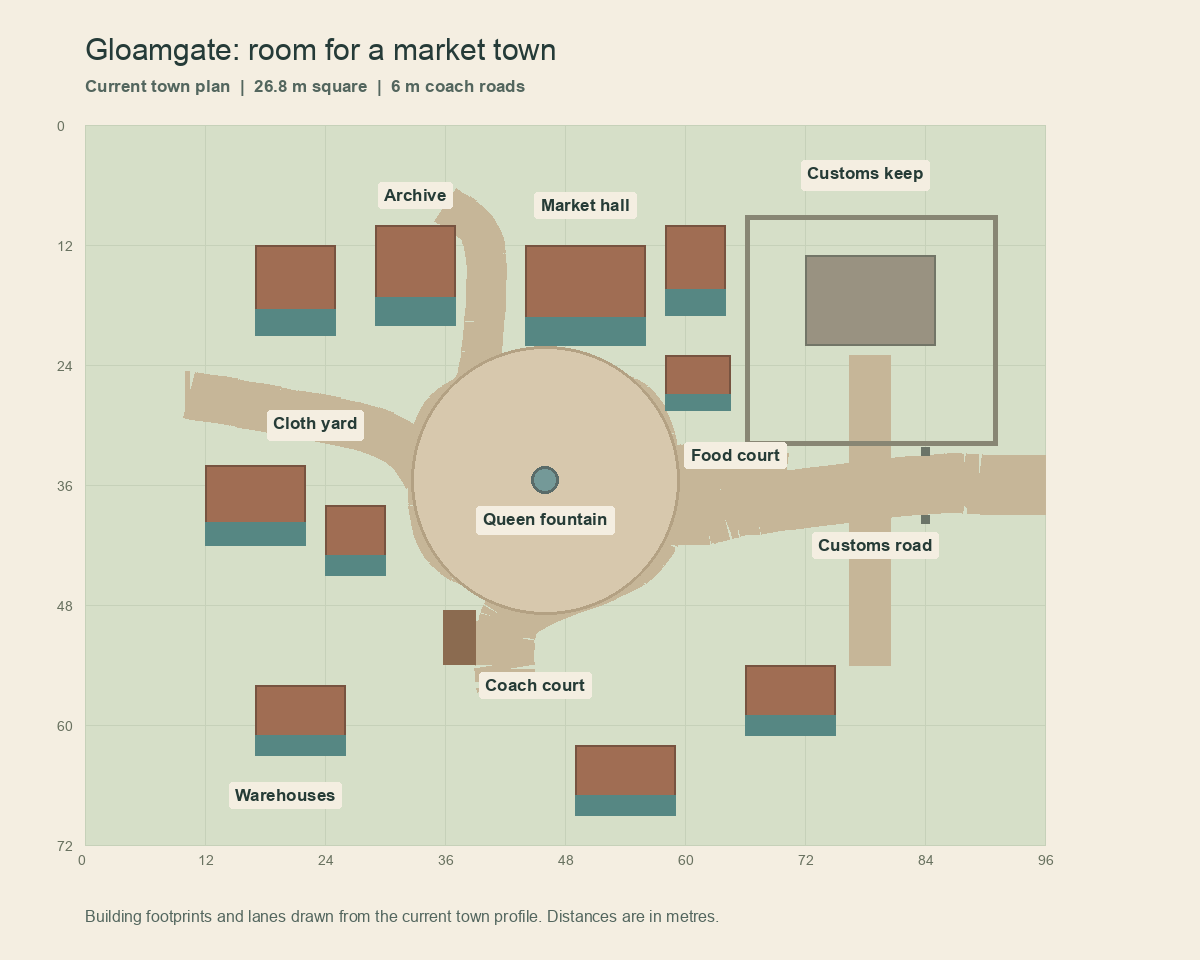
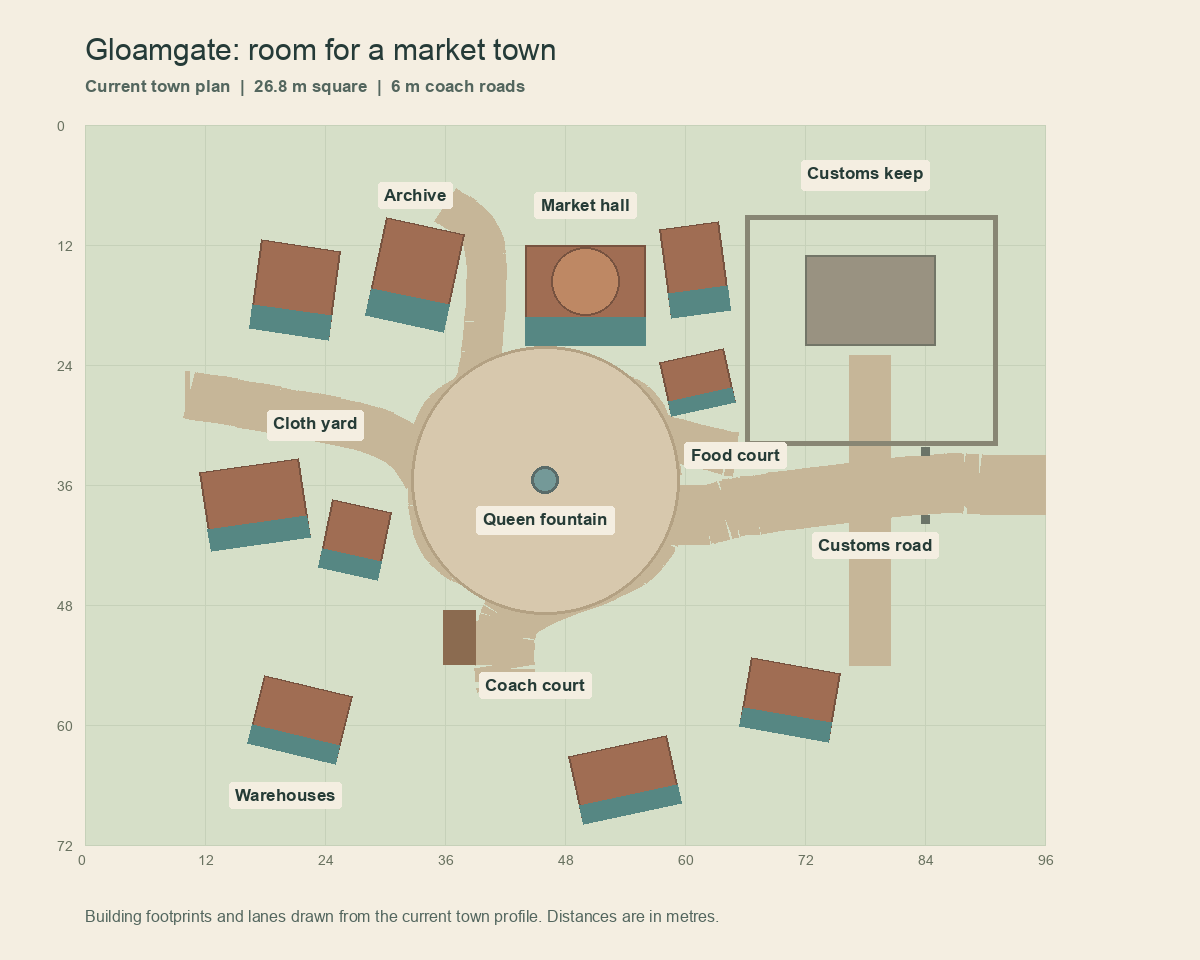
Turn Gloamgate shops toward the lanes and crown its market hall

diff --git a/tests/local_movement_tests.c b/tests/local_movement_tests.c
@@ -233,22 +233,34 @@ static bool RagdollTouchesStreet(const CcBiomechRagdoll *ragdoll)
 }
 
 static void RequireSolidStreetHouse(const char *name, float wall_x,
-                                    float center_x, float center_z)
+                                    float center_x, float center_z, float yaw)
 {
     const float radius = 0.16f;
+    float c = cosf(yaw * DEG2RAD), s = sinf(yaw * DEG2RAD);
     float body_y = CcLocalTerrainHeightAt(center_x, center_z) + 1.0f;
-    Vector3 previous = {wall_x - 0.80f, body_y, center_z};
-    Vector3 proposed = {wall_x + 0.80f, body_y, center_z};
+    Vector3 previous = {center_x + c * (wall_x - 0.80f - center_x),
+                        body_y, center_z - s * (wall_x - 0.80f - center_x)};
+    Vector3 proposed = {center_x + c * (wall_x + 0.80f - center_x),
+                        body_y, center_z - s * (wall_x + 0.80f - center_x)};
     Vector3 corrected = proposed;
     Vector3 normal = {0};
     if (!CcLocalProbePhysicsSphereInternal(
             CC_LOCAL_SCENE_STREET, previous, proposed, radius,
             &corrected, &normal) ||
-        corrected.x > wall_x - radius + 0.006f || normal.x > -0.90f) {
+        center_x + c * (corrected.x - center_x) - s * (corrected.z - center_z) >
+            wall_x - radius + 0.006f ||
+        c * normal.x - s * normal.z > -0.90f) {
         (void)fprintf(stderr,
                       "%s was not solid: %.3f %.3f %.3f normal %.3f %.3f %.3f\n",
                       name, corrected.x, corrected.y, corrected.z,
                       normal.x, normal.y, normal.z);
+        exit(1);
+    }
+    Vector2 legacy = CcLocalMove((Vector2){previous.x, previous.z},
+        (Vector2){proposed.x - previous.x, proposed.z - previous.z}, false);
+    if (center_x + c * (legacy.x - center_x) - s * (legacy.y - center_z) >
+        wall_x - 0.15f) {
+        (void)fprintf(stderr, "%s allowed walking through its angled wall\n", name);
         exit(1);
     }
 }
@@ -439,7 +451,8 @@ static void TestSharedCharacterCollisionWorld(void)
         const CcLocalPlaceBuilding *house = &market->building[houses[i]];
         RequireSolidStreetHouse(house->name, house->x,
                                  house->x + house->width * 0.5f,
-                                 house->z + house->depth * 0.5f);
+                                 house->z + house->depth * 0.5f,
+                                 market->building_yaw_degrees[houses[i]]);
     }
 
 

diff --git a/src/client/cc_local_place.c b/src/client/cc_local_place.c
@@ -256,8 +256,8 @@ static const CcLocalPlaceProfile PLACE_PROFILES[] = {
                 {49,47}, {44,48}, {42,51.2f}, {42,56}}},
             {"Customs rise", 4.2f, 5, {{78.5f,54}, {78.5f,44},
                 {78.5f,34}, {78.5f,27}, {78.5f,23}}},
-            {"Food lane", 4.5f, 4, {{57.5f,35.5f}, {61,34},
-                {65,33}, {70,35}}},
+            {"Food lane", 4.5f, 4, {{54.1f,27.4f}, {56,30.5f},
+                {61,31.5f}, {65,33}}},
             {"Cloth yard", 4.8f, 5, {{34.5f,35.5f}, {30,31},
                 {24,28}, {16,28}, {10,27}}},
             {"Archive lane", 4.0f, 5, {{37.9f,27.4f}, {39.5f,24},
@@ -295,6 +295,7 @@ static const CcLocalPlaceProfile PLACE_PROFILES[] = {
                         CC_LOCAL_PLACE_INDUSTRY |
                         CC_LOCAL_PLACE_CARRIAGE,
         .building_count = 10,
+        .building_yaw_degrees = {-8, -12, 0, 8, -12, -10, 12, 8, -14, 12},
         .primary_building = 2,
         .compound_structure_count = 12,
         .room_name = {

diff --git a/docs/reviews/gloamgate-2026-09-08/README.md b/docs/reviews/gloamgate-2026-09-08/README.md
@@ -3,7 +3,8 @@
 Gloamgate has a broad market square and five service lanes. The square is
 26.8 metres across. Six-metre coach roads curve into the existing yard.
 Shops and warehouses stand around separate trading courts, with lower
-buildings toward the camera.
+buildings toward the camera. Angled shops follow the lanes. A round guild
+chamber rises above the market hall and its bowed canopy.
 
 ![Current town plan](layout.png)
 
@@ -39,7 +40,7 @@ This native capture shows main at f0fa99e before the rebuild.
 ## Capture recipe
 
 The Linux client job publishes `gloamgate-review` with the arrival, market,
-coach court, moving carriage, fire damage, repairs, low security, and prosperity.
+coach court, moving carriage, fire damage, repairs, low security, prosperity, and empty food stores.
 
 ```sh
 --capture-town-state 1 82 36 arrival.png peaceful
@@ -50,4 +51,5 @@ coach court, moving carriage, fire damage, repairs, low security, and prosperity
 --capture-town-state 1 44.25 28.85 rebuilding.png rebuilding
 --capture-town-state 1 44.25 28.85 lawless.png lawless
 --capture-town-state 1 44.25 28.85 thriving.png thriving
+--capture-town-state 1 44.25 28.85 hungry.png hungry
 ```
